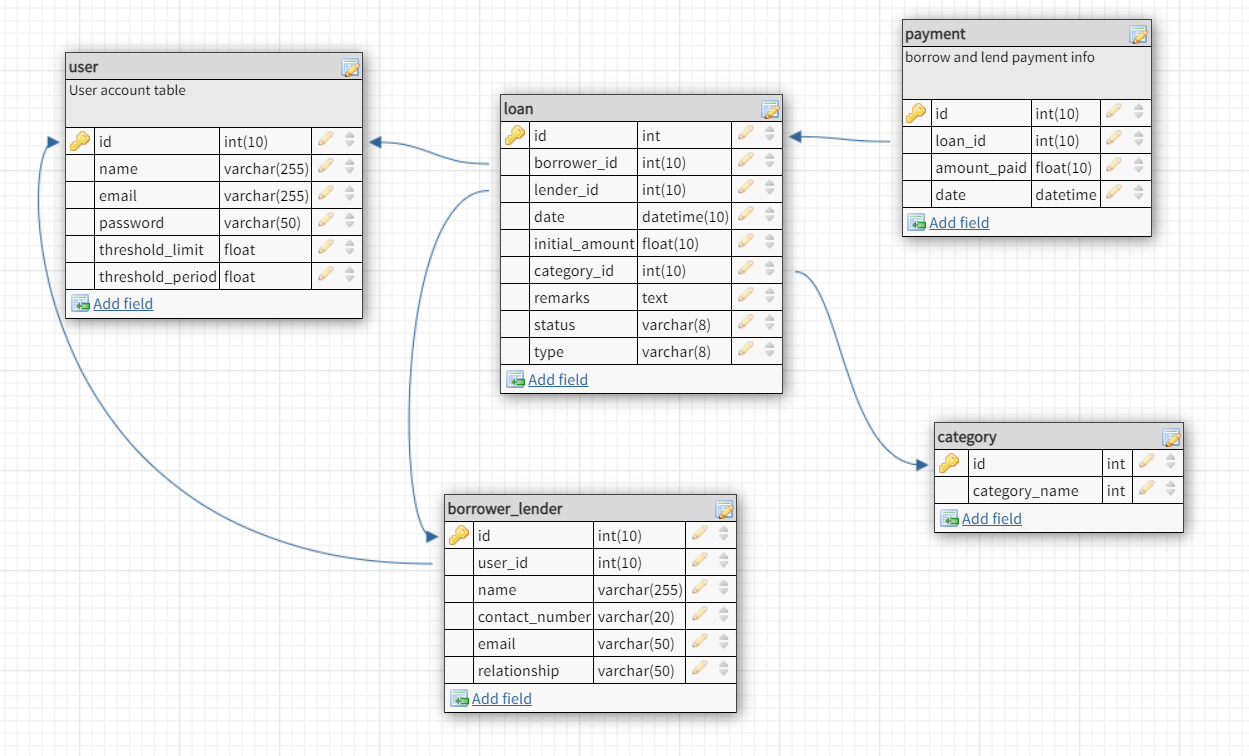
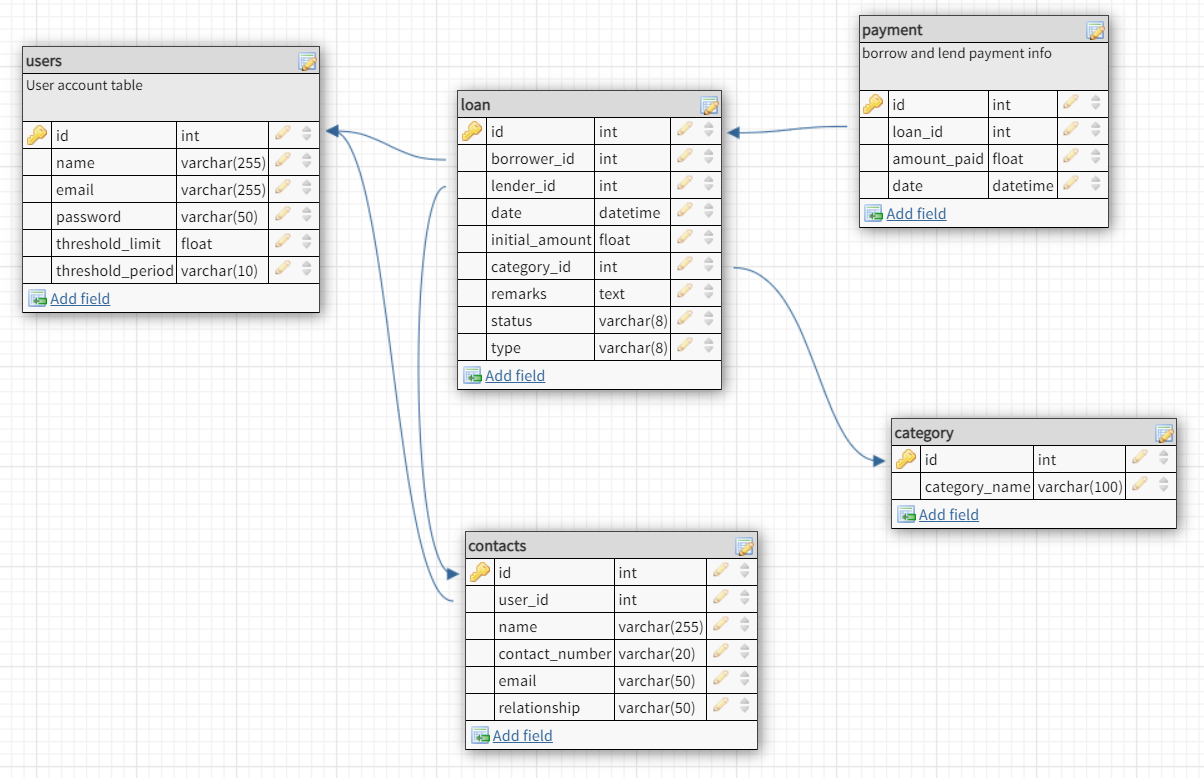
Modify table name, schema diagram, add api code

diff --git a/model/database.js b/model/database.js
@@ -21,19 +21,19 @@ con.connect(function(err) {
   let sql =
     " DROP DATABASE IF exists borrowlend ; CREATE DATABASE borrowlend; USE borrowlend; "
     + "CREATE TABLE users (id int NOT NULL AUTO_INCREMENT, name varchar(255) NOT NULL, email varchar(255) NOT NULL, password varchar(50) NOT NULL, threshold_limit FLOAT, threshold_period varchar(10),PRIMARY KEY (id)); "
-    + "CREATE TABLE borrower_lender (id int NOT NULL AUTO_INCREMENT, user_id int NOT NULL, name varchar(255) NOT NULL, contact_number varchar(20), email varchar(50), relationship varchar(50),PRIMARY KEY (id)); "
+    + "CREATE TABLE contacts (id int NOT NULL AUTO_INCREMENT, user_id int NOT NULL, name varchar(255) NOT NULL, contact_number varchar(20), email varchar(50), relationship varchar(50),PRIMARY KEY (id)); "
     + "CREATE TABLE category (id int NOT NULL AUTO_INCREMENT, category_name varchar(150) NOT NULL,PRIMARY KEY (id)); "
     + "CREATE TABLE loan (id int NOT NULL AUTO_INCREMENT, borrower_id int NOT NULL, lender_id int NOT NULL, date DATETIME NOT NULL, initial_amount FLOAT NOT NULL, category_id int NOT NULL, remarks TEXT, status varchar(8) NOT NULL DEFAULT 'active', type varchar(8) NOT NULL DEFAULT 'borrow',PRIMARY KEY (id)); "
     + "CREATE TABLE payment (id int NOT NULL AUTO_INCREMENT, loan_id int NOT NULL, amount_paid FLOAT NOT NULL, date DATETIME NOT NULL,PRIMARY KEY (id));"
-    + "ALTER TABLE borrower_lender ADD CONSTRAINT borrower_lender_fk0 FOREIGN KEY (user_id) REFERENCES users (id); ALTER TABLE loan ADD CONSTRAINT loan_fk0 FOREIGN KEY (borrower_id) REFERENCES users (id); ALTER TABLE loan ADD CONSTRAINT loan_fk1 FOREIGN KEY (lender_id) REFERENCES borrower_lender (id); ALTER TABLE loan ADD CONSTRAINT loan_fk2 FOREIGN KEY (category_id) REFERENCES category (id); ALTER TABLE payment ADD CONSTRAINT payment_fk0 FOREIGN KEY (loan_id) REFERENCES loan (id); ";
+    + "ALTER TABLE contacts ADD CONSTRAINT contacts_fk0 FOREIGN KEY (user_id) REFERENCES users (id); ALTER TABLE loan ADD CONSTRAINT loan_fk0 FOREIGN KEY (borrower_id) REFERENCES users (id); ALTER TABLE loan ADD CONSTRAINT loan_fk1 FOREIGN KEY (lender_id) REFERENCES contacts (id); ALTER TABLE loan ADD CONSTRAINT loan_fk2 FOREIGN KEY (category_id) REFERENCES category (id); ALTER TABLE payment ADD CONSTRAINT payment_fk0 FOREIGN KEY (loan_id) REFERENCES loan (id); ";
 
   let sqlInsert = "insert into users(email,name,password,threshold_limit, threshold_period) values ('Ms. Lovelyz', 'amazing@somehere.com', 'stillunderdev', 1000.00, 'yearly'); "
-    + " insert into borrower_lender(user_id,name,contact_number) VALUES (1, 'Leena', '123-456-333'), (1, 'Mee Fah', '123-000-333'), (1, 'Zila', '123-222-555'); "
+    + "insert into contacts(user_id,name,contact_number) VALUES (1, 'Leena', '123-456-333'), (1, 'Mee Fah', '123-000-333'), (1, 'Zila', '123-222-555'); "
     + "insert into category(category_name) VALUES ('Medical/Healthcare'), ('School/Education'), ('Finance/Debt Payment'), ('Housing'), ('Food'), ('Transportation'), ('Utilities'), ('Insurance'), ('Personal Spending'), ('Recreation/Entertainment'), ('Miscellaneous');";
 
   con.query(sql + sqlInsert, function(err, result) {
     if (err) throw err;
-    console.log("Tables creation with dummy data for 'borrowlender' db were successful!");
+    console.log("Tables creation with dummy data for 'borrowlend' db were successful!");
 
     console.log("Closing...");
   });

diff --git a/app.js b/app.js
@@ -4,8 +4,9 @@ var path = require('path');
 var cookieParser = require('cookie-parser');
 var logger = require('morgan');
 
-var indexRouter = require('./routes/index');
-var usersRouter = require('./routes/users');
+var apiRouter = require("./routes/api");
+//var indexRouter = require('./routes/index');
+//var usersRouter = require('./routes/users');
 
 var app = express();
 
@@ -15,13 +16,15 @@ app.use(express.urlencoded({ extended: false }));
 app.use(cookieParser());
 app.use(express.static(path.join(__dirname, 'public')));
 
-app.use('/', indexRouter);
-app.use('/users', usersRouter);
+app.use('/api', apiRouter);
+// app.use('/', indexRouter);
+//app.use('/users', usersRouter);
 
 // catch 404 and forward to error handler
 app.use(function(req, res, next) {
   next(createError(404));
 });
+
 
 // error handler
 app.use(function(err, req, res, next) {
@@ -31,7 +34,6 @@ app.use(function(err, req, res, next) {
 
   // render the error page
   res.status(err.status || 500);
-  res.send('error');
 });
 
 module.exports = app;

diff --git a/routes/api.js b/routes/api.js
@@ -22,7 +22,7 @@ router.get("/categories", (req, res) => {
 
 router.get("/contacts", (req, res) => {
   // Send back the full list of items
-  db("SELECT id, name FROM borrower_lender ORDER BY name ASC;")
+  db("SELECT id, name FROM contacts ORDER BY name ASC;")
     .then(results => {
       res.send(results.data);
     })
